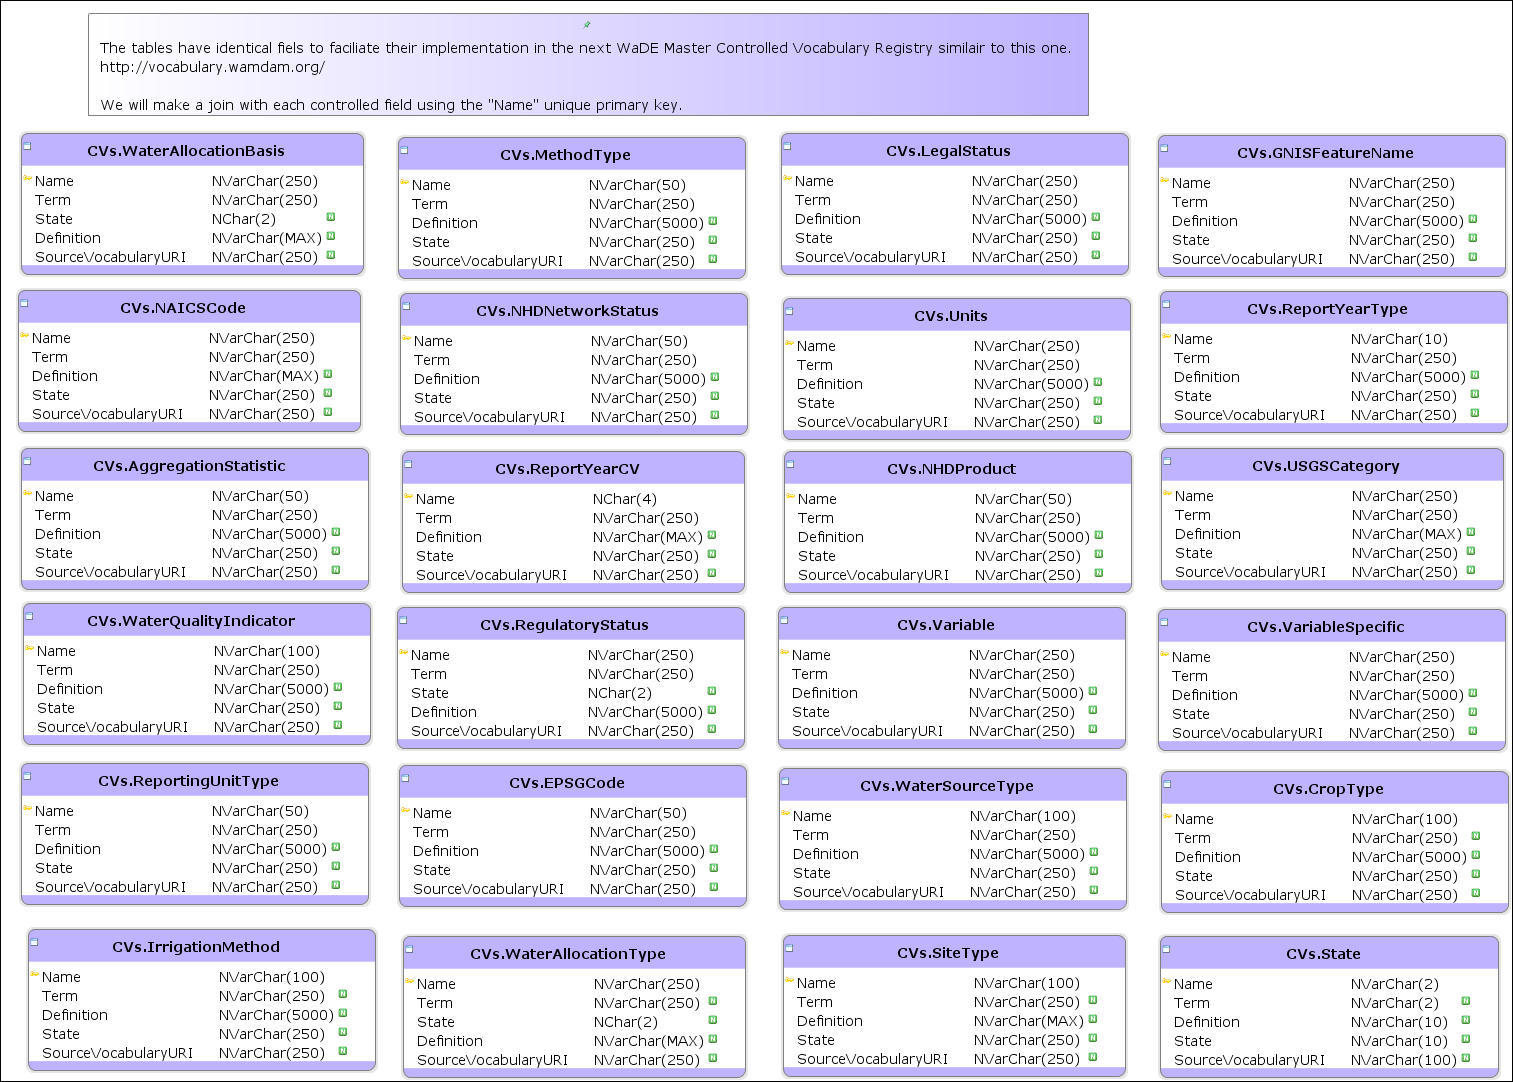
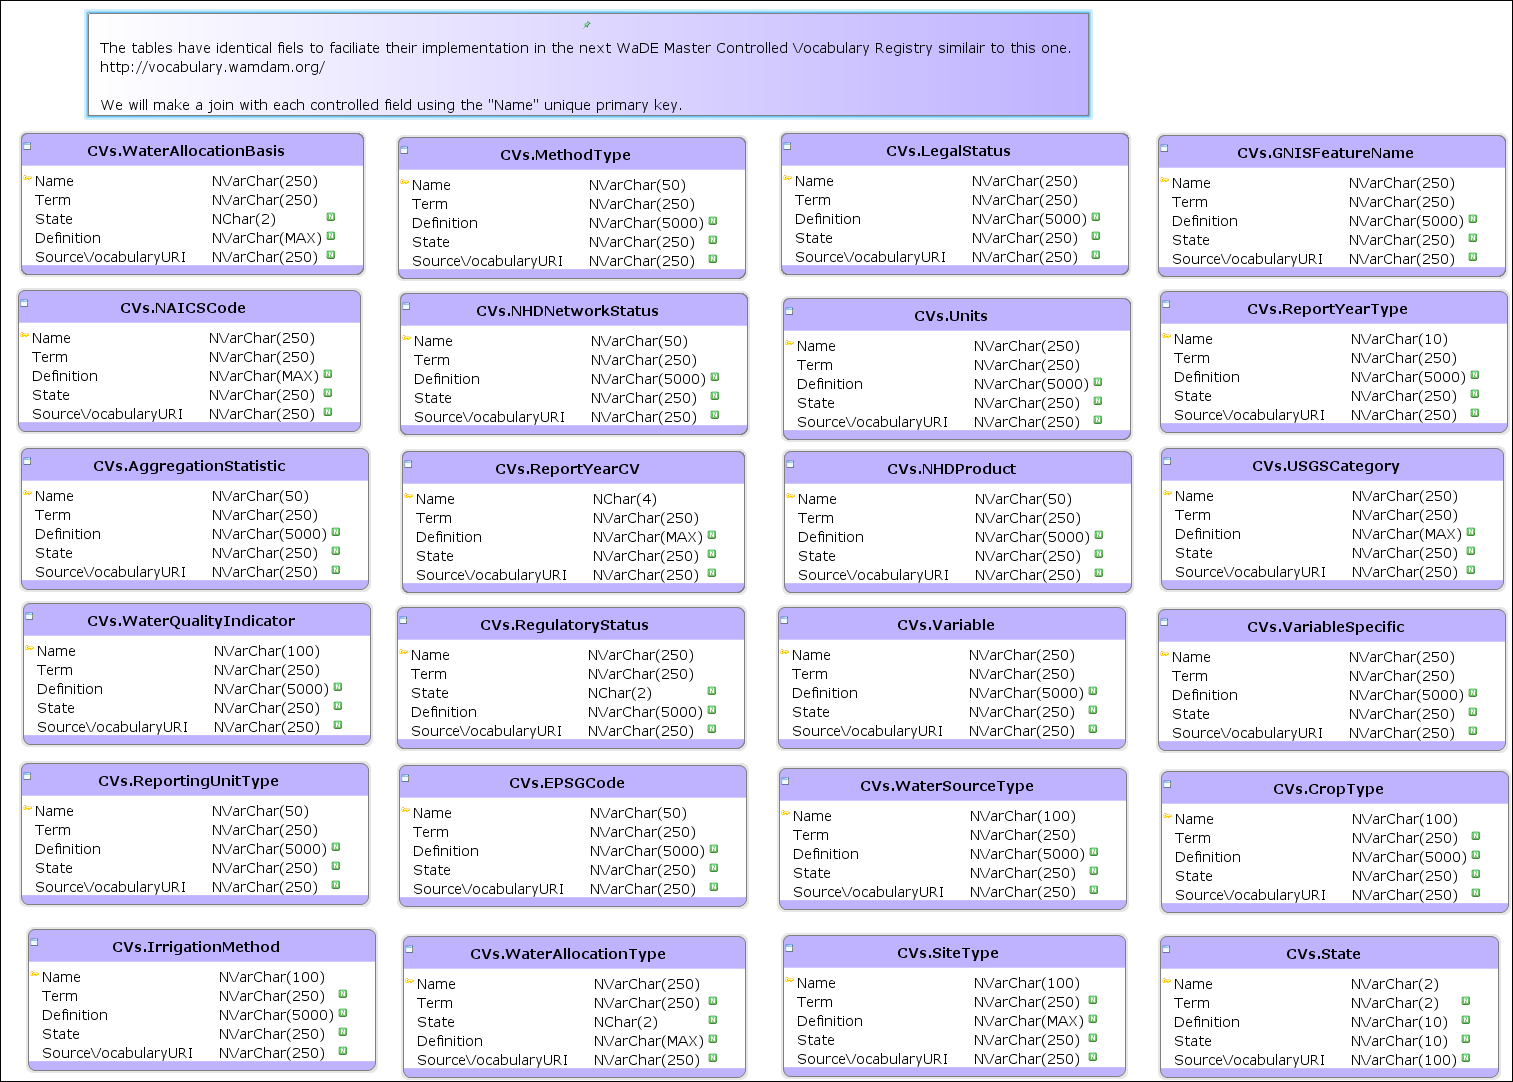
Make schemas a bit more pretty :)

Changed region(s): [[0.0621, 0.0915, 0.7145, 0.122], [0.0621, 0.0, 0.7145, 0.0305]]

diff --git a/docs/diagrams/1_WaterAllocations.html b/docs/diagrams/1_WaterAllocations.html
@@ -14,16 +14,16 @@
 <h1>Diagram: 1_WaterAllocations</h1>
 <br>
 <map id="imgmap" name="imgmap">
-<area coords="53, 647, 428, 902" href="../tables/Core_Methods_dim.html" shape="rect">
-<area coords="1150, 758, 1344, 861" href="../tables/Core_Date_dim.html" shape="rect">
-<area coords="1119, 952, 1479, 1150" href="../tables/Core_WaterSources_dim.html" shape="rect">
-<area coords="49, 287, 428, 542" href="../tables/Core_Variables_dim.html" shape="rect">
-<area coords="581, 1343, 955, 1560" href="../tables/Core_Organizations_dim.html" shape="rect">
-<area coords="528, 591, 1027, 1207" href="../tables/Core_AllocationAmounts_fact.html" shape="rect">
-<area coords="652, 184, 1003, 344" href="../tables/Core_BeneficialUses_dim.html" shape="rect">
-<area coords="564, 415, 927, 518" href="../tables/Core_AllocationBridge_BeneficialUses_fact.html" shape="rect">
-<area coords="54, 974, 390, 1305" href="../tables/Core_Sites_dim.html" shape="rect">
-<area coords="60, 1370, 394, 1530" href="../tables/Core_NHDMetadata.html" shape="rect">
+<area coords="38, 548, 413, 803" href="../tables/Core_Methods_dim.html" shape="rect">
+<area coords="1121, 675, 1315, 778" href="../tables/Core_Date_dim.html" shape="rect">
+<area coords="973, 1201, 1333, 1399" href="../tables/Core_WaterSources_dim.html" shape="rect">
+<area coords="34, 221, 413, 476" href="../tables/Core_Variables_dim.html" shape="rect">
+<area coords="507, 1194, 881, 1411" href="../tables/Core_Organizations_dim.html" shape="rect">
+<area coords="514, 504, 1013, 1120" href="../tables/Core_AllocationAmounts_fact.html" shape="rect">
+<area coords="715, 61, 1066, 221" href="../tables/Core_BeneficialUses_dim.html" shape="rect">
+<area coords="550, 328, 913, 431" href="../tables/Core_AllocationBridge_BeneficialUses_fact.html" shape="rect">
+<area coords="46, 863, 382, 1194" href="../tables/Core_Sites_dim.html" shape="rect">
+<area coords="54, 1244, 388, 1404" href="../tables/Core_NHDMetadata.html" shape="rect">
 </map>
 <img src="1_WaterAllocations.png" usemap="#imgmap"></body>
 </HTML>

diff --git a/docs/diagrams/index.html b/docs/diagrams/index.html
@@ -18,7 +18,7 @@
 <td class="header"><a href="../diagrams/1_WaterAllocations.html">1_WaterAllocations</a></td>
 </tr>
 <tr>
-<td class="diagramThumb"><a href="../diagrams/1_WaterAllocations.html"><img height="527" src="../diagrams/1_WaterAllocations.png" width="500"></a></td>
+<td class="diagramThumb"><a href="../diagrams/1_WaterAllocations.html"><img height="529" src="../diagrams/1_WaterAllocations.png" width="500"></a></td>
 </tr>
 </table>
 <br>
@@ -36,7 +36,7 @@
 <td class="header"><a href="../diagrams/3_AggregatedAmounts.html">3_AggregatedAmounts</a></td>
 </tr>
 <tr>
-<td class="diagramThumb"><a href="../diagrams/3_AggregatedAmounts.html"><img height="303" src="../diagrams/3_AggregatedAmounts.png" width="500"></a></td>
+<td class="diagramThumb"><a href="../diagrams/3_AggregatedAmounts.html"><img height="410" src="../diagrams/3_AggregatedAmounts.png" width="500"></a></td>
 </tr>
 </table>
 <br>
@@ -45,7 +45,7 @@
 <td class="header"><a href="../diagrams/4_RegulatoryInfo.html">4_RegulatoryInfo</a></td>
 </tr>
 <tr>
-<td class="diagramThumb"><a href="../diagrams/4_RegulatoryInfo.html"><img height="303" src="../diagrams/4_RegulatoryInfo.png" width="500"></a></td>
+<td class="diagramThumb"><a href="../diagrams/4_RegulatoryInfo.html"><img height="261" src="../diagrams/4_RegulatoryInfo.png" width="500"></a></td>
 </tr>
 </table>
 <br>

diff --git a/docs/diagrams/4_RegulatoryInfo.html b/docs/diagrams/4_RegulatoryInfo.html
@@ -14,11 +14,11 @@
 <h1>Diagram: 4_RegulatoryInfo</h1>
 <br>
 <map id="imgmap" name="imgmap">
-<area coords="1004, 299, 1382, 592" href="../tables/Core_RegulatoryOverlay_dim.html" shape="rect">
-<area coords="50, 604, 441, 840" href="../tables/Core_ReportingUnits_dim.html" shape="rect">
-<area coords="520, 341, 837, 501" href="../tables/Core_RegulatoryReportingUnits_fact.html" shape="rect">
-<area coords="535, 614, 909, 831" href="../tables/Core_Organizations_dim.html" shape="rect">
-<area coords="584, 159, 778, 262" href="../tables/Core_Date_dim.html" shape="rect">
+<area coords="974, 167, 1352, 460" href="../tables/Core_RegulatoryOverlay_dim.html" shape="rect">
+<area coords="20, 472, 411, 708" href="../tables/Core_ReportingUnits_dim.html" shape="rect">
+<area coords="490, 209, 807, 369" href="../tables/Core_RegulatoryReportingUnits_fact.html" shape="rect">
+<area coords="505, 482, 879, 699" href="../tables/Core_Organizations_dim.html" shape="rect">
+<area coords="554, 27, 748, 130" href="../tables/Core_Date_dim.html" shape="rect">
 </map>
 <img src="4_RegulatoryInfo.png" usemap="#imgmap"></body>
 </HTML>

diff --git a/docs/diagrams/3_AggregatedAmounts.html b/docs/diagrams/3_AggregatedAmounts.html
@@ -15,7 +15,7 @@
 <br>
 <map id="imgmap" name="imgmap">
 <area coords="56, 882, 447, 1118" href="../tables/Core_ReportingUnits_dim.html" shape="rect">
-<area coords="1034, 915, 1394, 1113" href="../tables/Core_WaterSources_dim.html" shape="rect">
+<area coords="1026, 936, 1386, 1134" href="../tables/Core_WaterSources_dim.html" shape="rect">
 <area coords="45, 202, 424, 457" href="../tables/Core_Variables_dim.html" shape="rect">
 <area coords="572, 433, 941, 802" href="../tables/Core_AggregatedAmounts_fact.html" shape="rect">
 <area coords="1110, 560, 1304, 663" href="../tables/Core_Date_dim.html" shape="rect">

diff --git a/docs/index.html b/docs/index.html
@@ -51,7 +51,7 @@
 <div class="paragraph">
 <p>
 <b>Documented with DbWrench  </b>
-<k>19 Apr 2019 - 10:08:07 AM</k>
+<k>19 Apr 2019 - 10:20:28 AM</k>
 </p>
 </div>
 </body>
